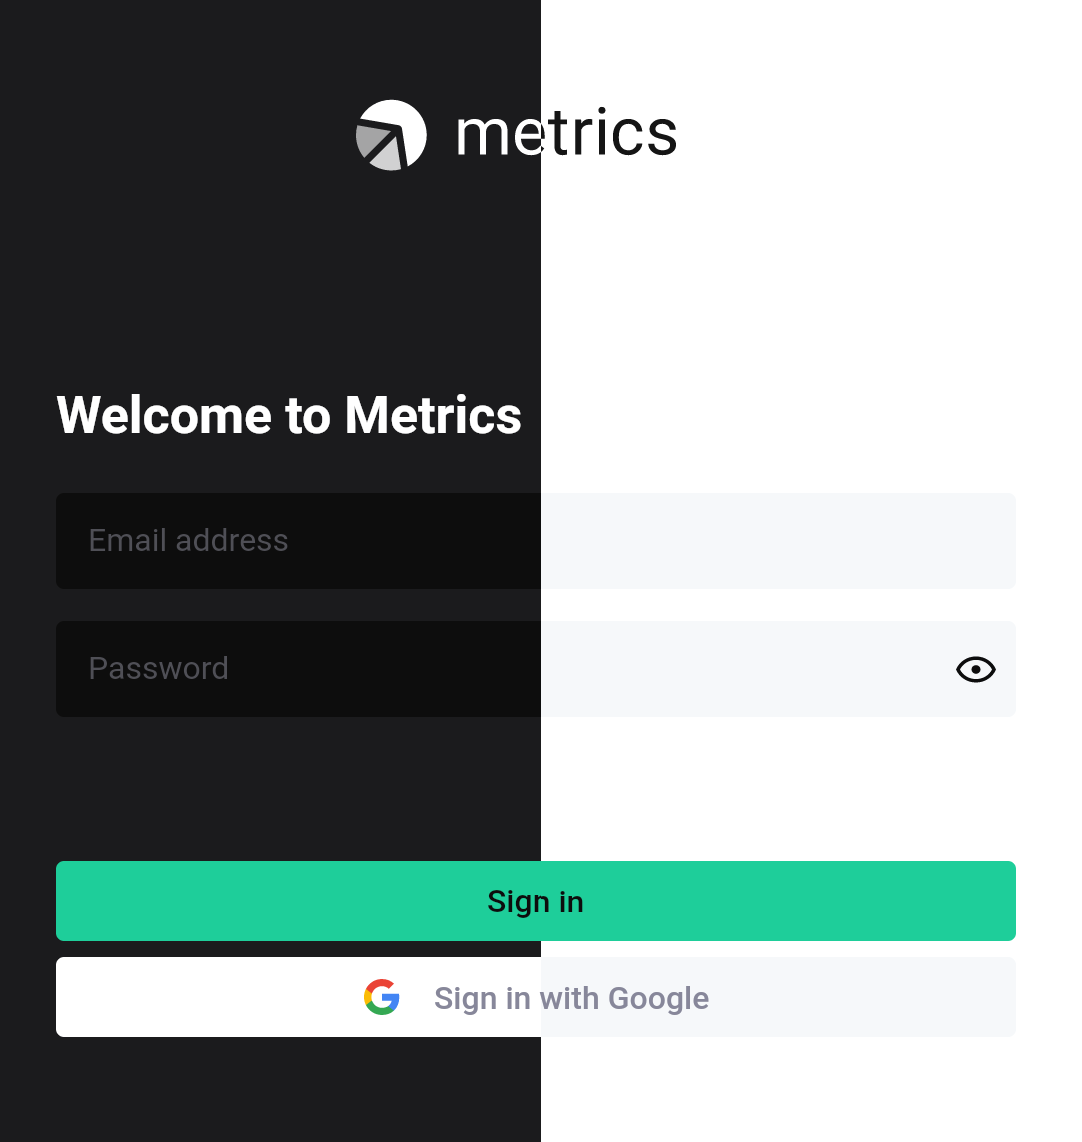
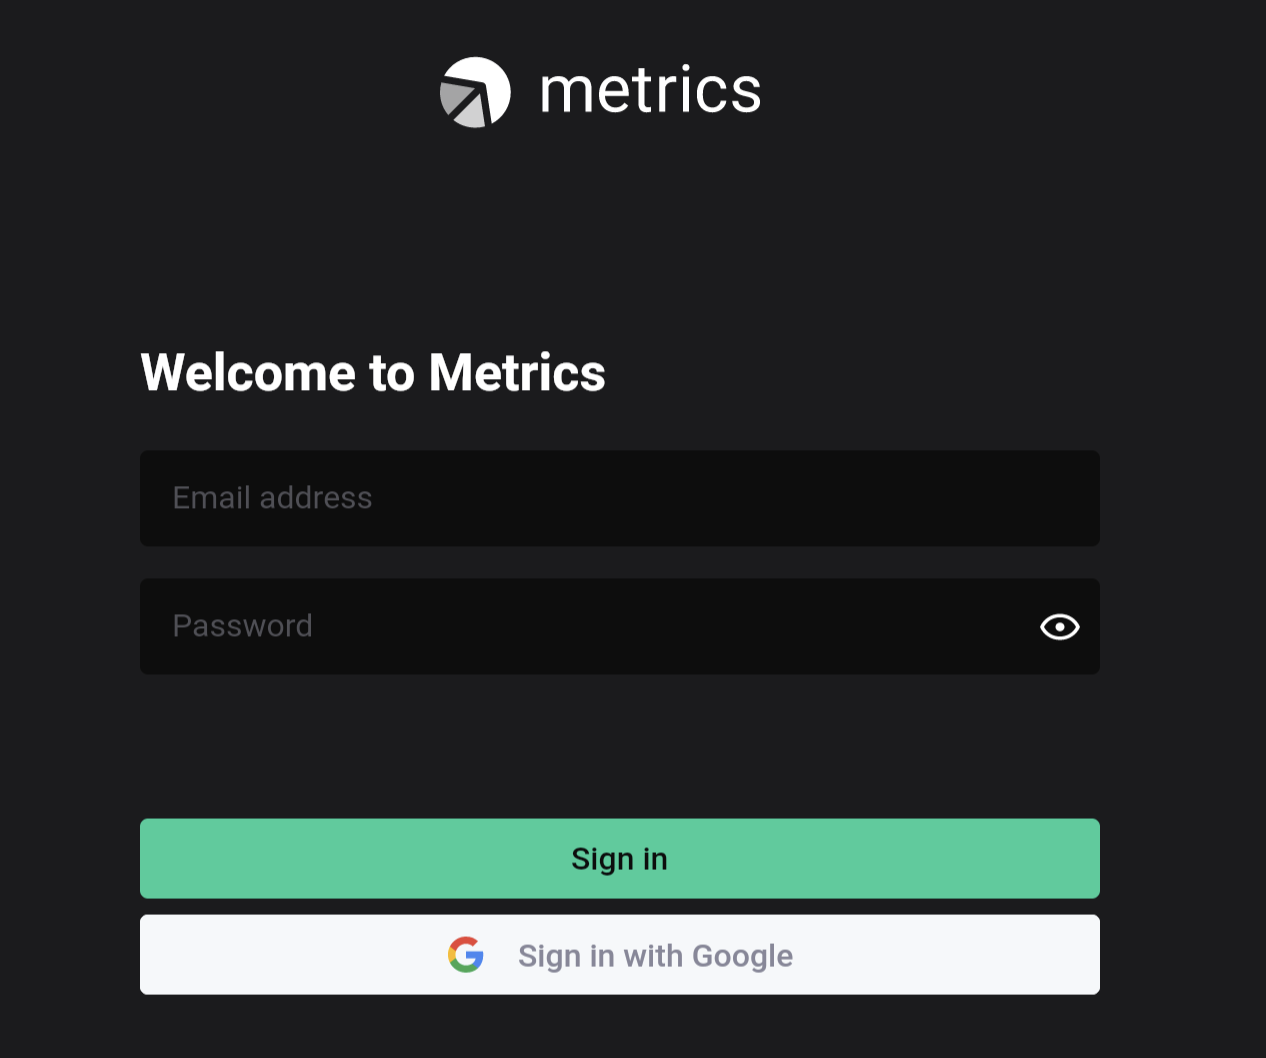
Fix auth image

diff --git a/metrics/readme.md b/metrics/readme.md
@@ -16,8 +16,7 @@ The Metrics Web Application provides a beautiful and handy UI delivered by creat
 
 All the data that the Metrics components orchestrate, belongs only to you: it is stored in the Cloud Firestore database as a part of your Firebase project, the logging is performed on your Sentry account, if enabled, analytics are reported to your Firebase Analytics account, and so on. Moreover, to make the components even safer, we provide a great set of [Firestore Security rules](https://firebase.google.com/docs/firestore/security/get-started) for Cloud Firestore to protect the stored projects' data. The [Firebase Authentication](https://firebase.google.com/docs/auth) stands on the guard of the deployed web application and the stored data from insufficient access.
 
-![Auth UI](../docs/images/auth_ui_test.png)
-![Auth UI](../docs/images/auth_ui_dark.png)
+![Auth UI](../docs/images/auth_ui.png)
 
 ### Fully Integrated
 
